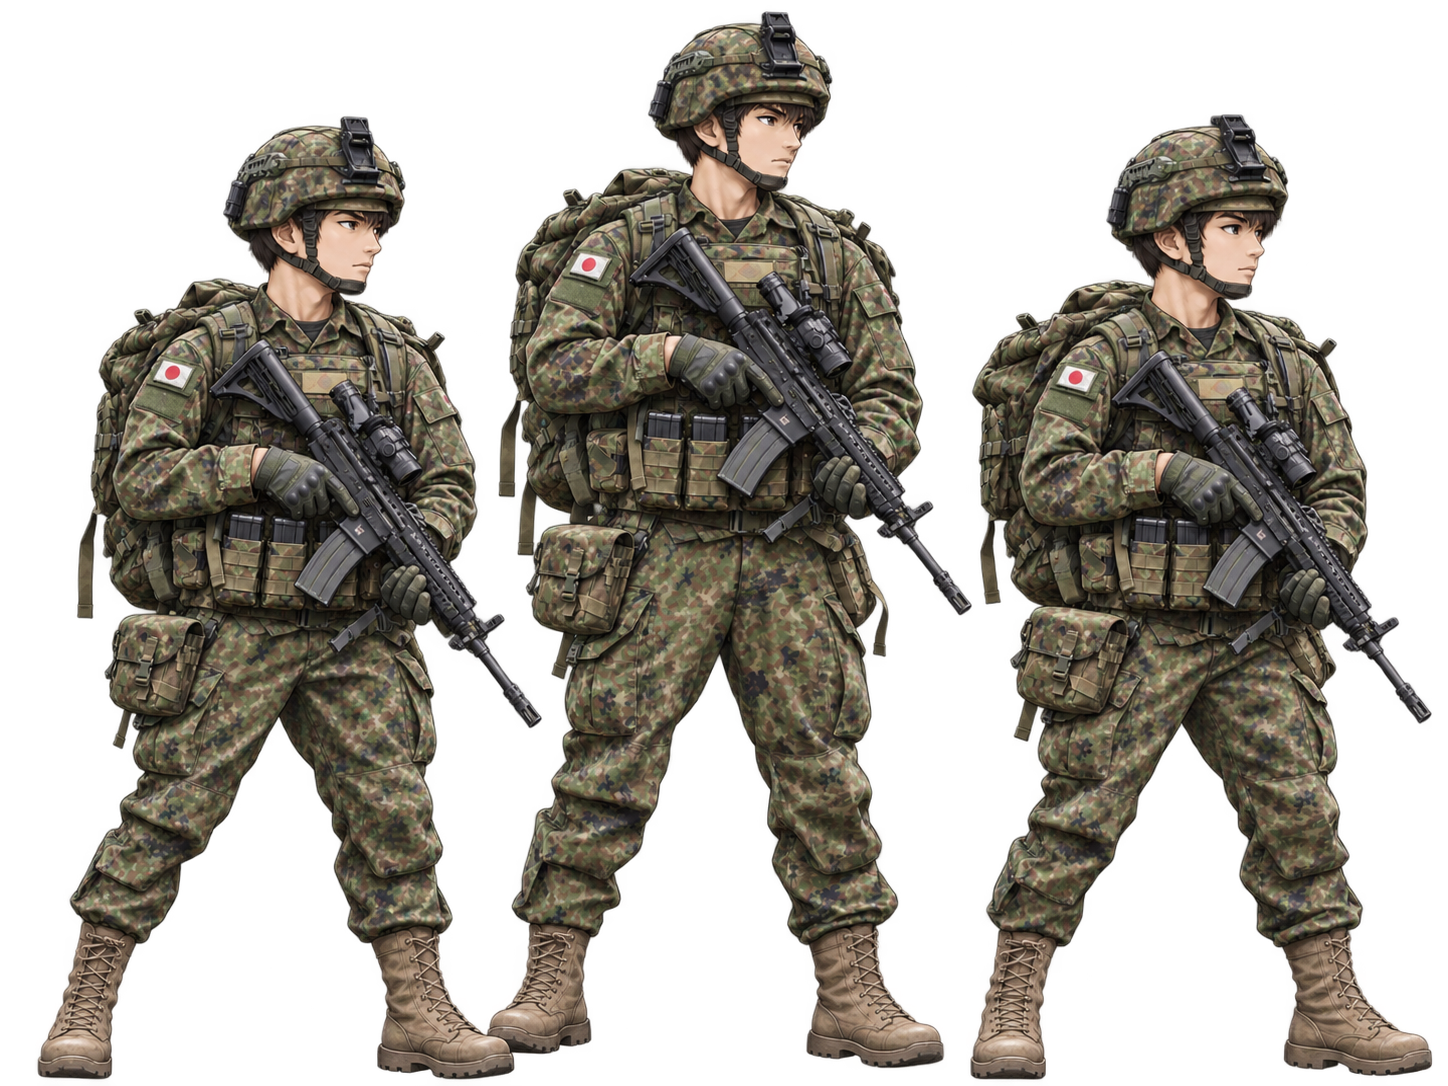
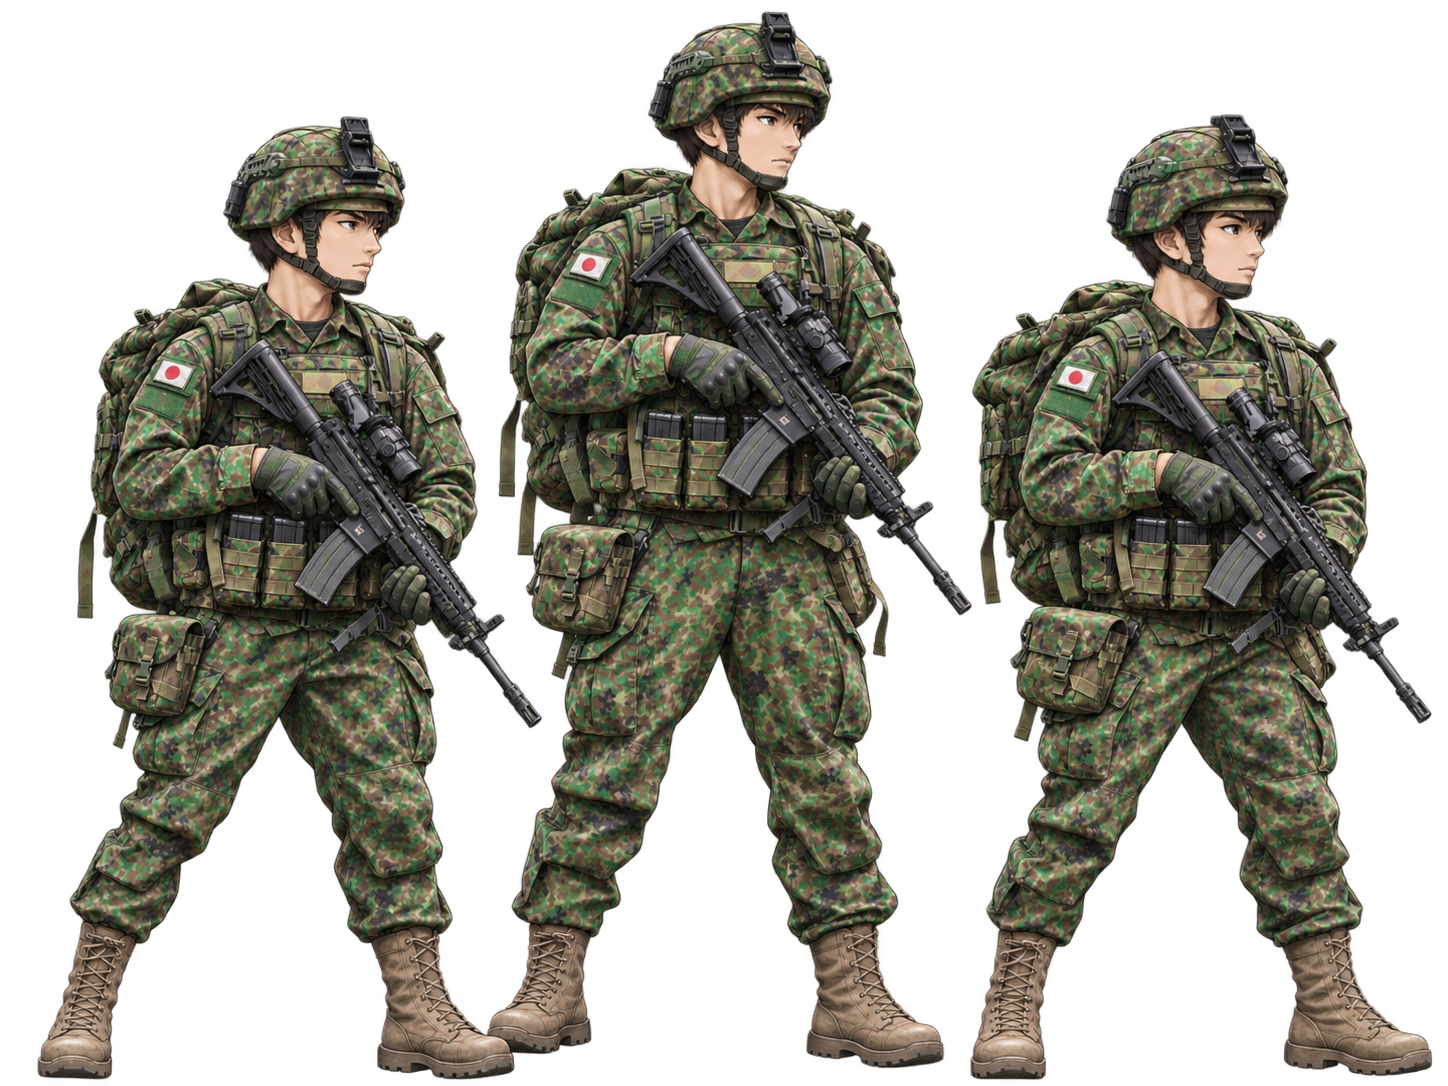
Add original Japanese infantry artwork and native combat integration for v1.2.5

diff --git a/game/assets/east-asia-unit-bounds.js b/game/assets/east-asia-unit-bounds.js
@@ -1,2 +1,2 @@
-// Offline alpha>=32 bounds measured from the original uploaded PNGs.
[1 lines of base64/hex data omitted]
+// Offline alpha>=32 bounds measured from the original uploaded PNG/WebP files.
[1 lines of base64/hex data omitted]

diff --git a/game/assets/east-asia-units.js b/game/assets/east-asia-units.js
@@ -19,7 +19,17 @@ const EAST_ASIA_SUPPORT={
  9:{art:eastAsiaSupportArt[9],source:'kr-antitank',baseFacing:1,width:64,height:48,highResolution:true,muzzles:rightInfantryMuzzles([[506,281],[1004,153],[1422,281]],1448,1086),projectile:'baekRocket'},
  10:{art:eastAsiaSupportArt[10],source:'kr-machinegun',baseFacing:-1,width:64,height:48,highResolution:true,muzzles:baekMuzzles([[20,398]]),burst:true}
 };
-infantryArtProfile=function(u){return u.type===0?EAST_ASIA_RIFLES[u.f]||null:u.f===0?EAST_ASIA_SUPPORT[u.type]||null:null};
+const eastAsiaJapaneseSupportArt={
+ 8:loadBaekArt('eastasia-jp-grenadier-idle.webp','eastasia-jp-grenadier-fire.webp'),
+ 9:loadBaekArt('eastasia-jp-antitank-idle.webp','eastasia-jp-antitank-fire.webp'),
+ 10:loadBaekArt('eastasia-jp-machinegun.png')
+};
+const EAST_ASIA_JAPANESE_SUPPORT={
+ 8:{art:eastAsiaJapaneseSupportArt[8],source:'jp-grenadier',baseFacing:1,width:48*1446/1086,idleWidth:64,height:48,highResolution:true,muzzles:rightInfantryMuzzles([[543,238],[1019,102],[1408,251]],1446,1086,48*1446/1086,48),projectile:'baekGrenade',flashAngle:.4},
+ 9:{art:eastAsiaJapaneseSupportArt[9],source:'jp-antitank',baseFacing:1,width:48*1446/1086,idleWidth:64,height:48,highResolution:true,muzzles:rightInfantryMuzzles([[538,278],[1001,164],[1427,285]],1446,1086,48*1446/1086,48),projectile:'baekRocket'},
+ 10:{art:eastAsiaJapaneseSupportArt[10],source:'jp-machinegun',baseFacing:-1,width:48*1446/1086,height:48,highResolution:true,muzzles:[[26,405]].map(([x,y])=>({x:(x/1446-.5)*48*1446/1086,y:14-48+y/1086*48})),burst:true}
+};
+infantryArtProfile=function(u){return u.type===0?EAST_ASIA_RIFLES[u.f]||null:(u.f===0?EAST_ASIA_SUPPORT:u.f===2?EAST_ASIA_JAPANESE_SUPPORT:{})[u.type]||null};
 const eastAsiaTankArt={
  '0:1':loadBaekArt('eastasia-kr-tank.png'),
  '0:14':loadBaekArt('eastasia-kr-elite.png'),
@@ -55,7 +65,7 @@ combatImpactProfile=function(u){return eastAsiaImpactSound(u.f===2&&[1,13,14].in
 Object.assign(window.Terha,{infantryArtProfile,isBaekTank,isStetopiaTank,baekTankProfile,combatWeaponProfile,combatImpactProfile});
 // Compile the original hit/ground lookup layout from offline opaque bounds.
 // Every formation tier shares the same anchored art, as in Terha.
-for(const f of [0,2])for(const type of (f===0?[0,1,8,9,10,14]:[0,1,14])){
+for(const f of [0,2])for(const type of [0,1,8,9,10,14]){
  const key=f+':'+type,hits=[],feet=[];
  for(const firing of [false,true])for(let direction=0;direction<16;direction++){
   const facing=Math.cos(direction*Math.PI/8)<0?-1:1;

diff --git a/game/assets/app-shell.js b/game/assets/app-shell.js
@@ -1,5 +1,5 @@
 'use strict';
-const APP_VERSION='1.2.4',APP_SETTINGS_KEY='eastasia-settings',APP_RECORDS_KEY='eastasia-conquests';
+const APP_VERSION='1.2.5',APP_SETTINGS_KEY='eastasia-settings',APP_RECORDS_KEY='eastasia-conquests';
 function readAppJSON(key,fallback){try{return JSON.parse(localStorage.getItem(key))??fallback}catch{return fallback}}
 const savedAppSettings=readAppJSON(APP_SETTINGS_KEY,{});
 const appSettings={music:Number.isFinite(savedAppSettings.music)?Math.min(1,Math.max(0,savedAppSettings.music)):.65,effects:Number.isFinite(savedAppSettings.effects)?Math.min(1,Math.max(0,savedAppSettings.effects)):1,language:savedAppSettings.language==='en'?'en':'ko'};
